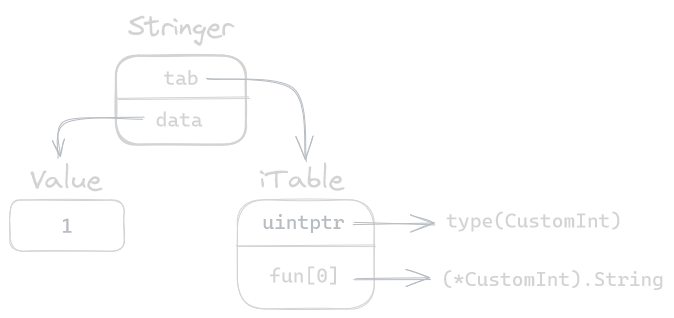
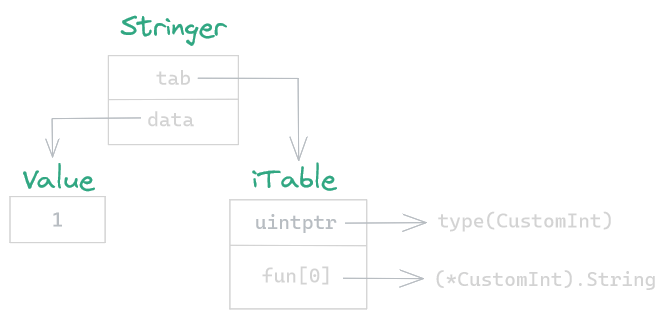
fix: updated theme and Go interfaces post

diff --git a/content/posts/go-interfaces.md b/content/posts/go-interfaces.md
@@ -11,9 +11,9 @@ Go treats interfaces very differently from other languages that implement them. 
 
 # Basics
 
-To quote [Effective Go](https://go.dev/doc/effective_go#interfaces_and_types) "interfaces in Go provide a way to specify the behavior of an object: if it can do *this*, then it can be used *here*", which means that interfaces are satisfied implicitly and structures need not any `implement` keyword. 
+To quote [Effective Go](https://go.dev/doc/effective_go#interfaces_and_types) "interfaces in Go provide a way to specify the behavior of an object: if it can do *this*, then it can be used *here*", meaning that interfaces are satisfied implicitly so structures need not any `implement` keyword to signal that they implement an interface.
 
-To deepen our understanding, let's talk about two of the most ubiquitous interfaces in Go, `io.Reader` and `io.Writer`.
+Let's better dive into this topic using as examples two ubiquitous interfaces in Go, `io.Reader` and `io.Writer`.
 
 ```go
 // Writer takes a slice of bytes p and write it to the underlying data stream.
@@ -27,11 +27,11 @@ type Reader interface {
 }
 ```
 
-First, a common idiom in Go is that interfaces are very often named using an *-er* suffix. Second, you want your interfaces to be as small as possible but not smaller. The bigger the interface, the weaker the abstraction.
+You may notice a common idiom in Go with interfaces, they are very often named using an *-er* suffix. Another idiomatic way of manipulating interfaces is to keep them small: "*the bigger the interface, the weaker the abstraction*".
 
-Going back to `io.Reader` and `io.Writer`, these two are used in many places, whether you want to read/write to a file or an HTTP request/response, they are pretty much everywhere. Hence, it is a good idea to follow the [Liskov's substitution principle](https://en.wikipedia.org/wiki/Liskov_substitution_principle). For instance, instead of accepting in a file path as a function to read from said file, accept an `io.Reader`.
+Going back to `io.Reader` and `io.Writer`, whether a program wants to read/write to a file or an HTTP request/response, it will end up using one of these. Hence, it is a good idea to follow the [Liskov's substitution principle](https://en.wikipedia.org/wiki/Liskov_substitution_principle). For instance, instead of accepting a file path as a function parameter to read from said file, the function should accept an `io.Reader` directly.
 
-The function is now more generic so it may be reused in the future, and it is now easier to create mocks for testing.
+This small change makes the function more generic so that it may be reused in the future and it also allows for easier testing by simplifying the creation of mocks as demonstrated bellow.
 
 ```go
 // Uppercase reads from a stream and returns all data in uppercase.
@@ -72,7 +72,7 @@ type ReadCloser interface {
 }
 ```
 
-Finally, it is sometimes useful to access an interface underlying value. The "comma ok" idiom and type switches are two methods to achieve that.
+Sometimes a program might need to access an interface underlying value. The "comma ok" idiom and type switches are two methods to achieve that.
 
 ```go
 // "any" is an alias for "interface{}" which matches 
@@ -96,6 +96,8 @@ default:
 }
 ```
 
+Though the implementation differs from other languages, Go interfaces provide the same benefits: define abstractions for common behavior (e.g. writing to a data stream) which allows for loose coupling between functions and their parameters which then brings several benefits (i.e. reusability, easier testing). There is another feature provided by interfaces that we haven't yet mentioned: they allow to limit the behavior on the underlying type.
+
 
 
 # Under the hood
@@ -104,8 +106,7 @@ Russ Cox's [post](https://research.swtch.com/interfaces) goes into the details o
 
 Interfaces are modeled as a two-word data structure:
 
-- The first word points to an interface table, or "itable", which holds the underlying concrete type and pointers to the associated functions for that interface.
-- The second word points to the actual value of that interface.
+- The first word points to an interface table, or "itable", which holds the underlying concrete type and pointers to the associated functions for that interface. The second word points to the actual value of that interface.
 
 To illustrate this, let's take the example of a simple interface, `Stringer`. It is defined in the `fmt` package, and is used to print values passed to the various print functions in the package.
 
@@ -125,13 +126,34 @@ var foo Stringer = CustomInt(1)
 fmt.Println(foo)
 ```
 
-Behind the scenes, the `Stringer` interface containing the `CustomInteger` is stored as depicted below (arrows symbolize pointers).
+Behind the scenes, the `Stringer` interface in `foo` is stored as depicted below where arrows symbolize pointers.
 
-![Interface memory layout](itable.png)
+```html
+<object data="itable.svg" type="image/svg+xml">
+  <img src="itable.png" />
+</object>
+```
 
-Whenever you try to assert the concrete type of an interface using the "comma ok" idiom or a type switch, the runtime checks if the type you are asserting matches the one stored in the itable.
+Now that we understand how interfaces are modeled, we know why:
 
-Finally, an interface will only be considered `nil` if both the value and the type are `nil`.
+First, whenever you try to assert the concrete type of an interface using the "comma ok" idiom or a type switch, the runtime checks if the type you are asserting matches the one stored in the itable.
+
+Second, using interfaces allows to restrict the behavior of the underlying concrete type because the interface's itable only has access to the functions defined by the interface. One way to overcome this is to dynamically check if the interface value implements other interfaces as depicted bellow.
+
+```go
+// bytes.Buffer implement the Writer interface and Stringer
+foo := new(bytes.Buffer)
+
+func bar(f Stringer) {
+    w, ok := f.(Writer)
+    if ok {
+        // "w" now contains a Writer interface and is not limited
+        // by the "String" method.s
+    }
+}
+```
+
+Finally, and this is very important, an interface will only be considered `nil` if both its value and type are `nil`.
 
 
 
@@ -141,7 +163,13 @@ Finally, an interface will only be considered `nil` if both the value and the ty
 
 Since an interface is only considered `nil` when both its type and value are `nil`. Returning 
 
+<br>
+
 #### 2. Using pointer-receiver methods with value
+
+Aka interface value not addressable
+
+<br>
 
 #### 3. Defining interfaces on the producer side
 
